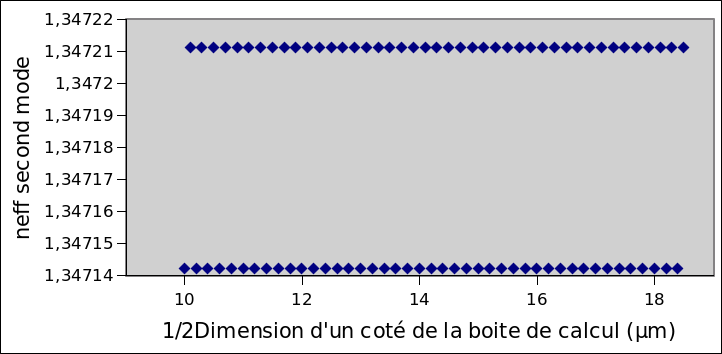
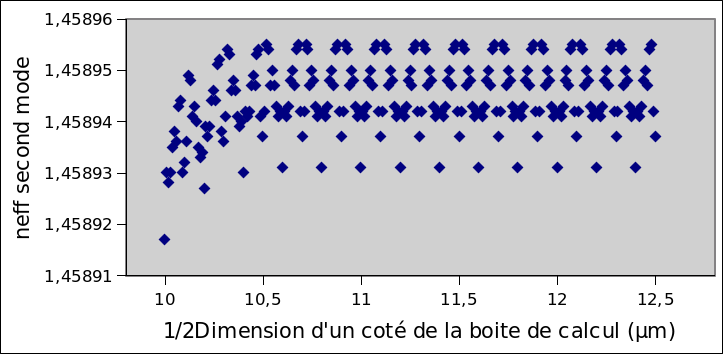
pic

diff --git a/partie_8/main.m b/partie_8/main.m
@@ -19,17 +19,17 @@ clc
 
 
 pas = 0.12; %pas h de discretisation en micro m
-cote = 20; % demi dimension du guide
+cote = 10; % demi dimension du guide
 g_SMF = WGgen_SMF(pas,cote);
 g_SMF = TE_solve(g_SMF,2);
 g_SMF.neff
-%  Z = display_mode(g_SMF,1);
-%  figure;
-%  surf(g_SMF.x,g_SMF.y,Z);
-%  Z = display_mode(g_SMF,2);
-%  figure;
-%  surf(g_SMF.x,g_SMF.y,Z);
-%  
-%  cutline(g_SMF,1,-10,0,10,0);
+Z = display_mode(g_SMF,1);
+figure;
+surf(g_SMF.x,g_SMF.y,Z);
+Z = display_mode(g_SMF,2);
+figure;
+surf(g_SMF.x,g_SMF.y,Z);
+  
+  cutline(g_SMF,1,-10,0,10,0);
 
 end

diff --git a/partie_8/convergence.m b/partie_8/convergence.m
@@ -19,7 +19,7 @@ function convergence
 
 fic = fopen("conv2.csv",'w');
 fprintf(fic, '%s;%s;%s\n',["h","neff1","neff2"]);
-for elt = 10:0.1:18
+for elt = 10:0.01:12.5
     elt
     g=WGgen_SMF(0.2,elt);
     g = TE_solve(g,2);

diff --git a/partie_8/WGgen_SMF.m b/partie_8/WGgen_SMF.m
@@ -46,8 +46,8 @@ while theta<2*pi
     theta = theta + dtheta;
 end
 
-g=insert(g, gaine, 1);
-g=insert(g, coeur, 1.36);
+g=insert(g, gaine, 1.46);
+g=insert(g, coeur, 1.4636);
 
 end
 
